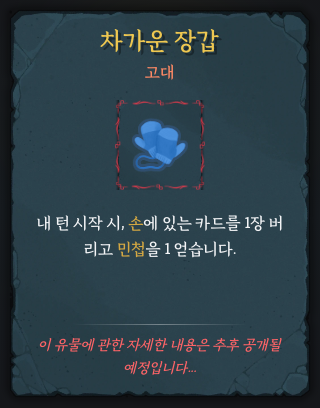
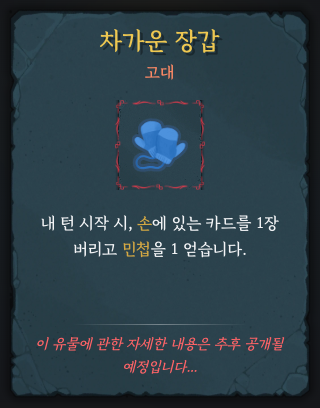
Keep byrdispatch captures at intrinsic size and recapture the Cold Mittens slab.

diff --git a/src/app/(main)/byrdispatch/page-content.tsx b/src/app/(main)/byrdispatch/page-content.tsx
@@ -597,21 +597,14 @@ function byrdispatchItemKey(item: ByrdispatchSectionItem, index: number): string
 }
 
 function ByrdispatchMediaBlock({ media }: { media: ByrdispatchMedia }) {
-  const compact = media.src.includes("/story-reaction-palette.");
   return (
-    <figure className={[
-      "mt-3 overflow-hidden rounded-lg border border-border/70 bg-zinc-950/70",
-      compact ? "mx-auto w-1/2" : "",
-    ].filter(Boolean).join(" ")}
-    >
+    <figure className="mx-auto mt-3 w-fit max-w-full overflow-hidden rounded-lg border border-border/70 bg-zinc-950/70">
       <Image
         src={media.src}
         alt={media.alt}
         title={media.title}
-        width={1280}
-        height={776}
         loading="lazy"
-        className="w-full object-cover"
+        className="mx-auto block h-auto w-auto max-w-full object-contain"
       />
       {media.alt && (
         <figcaption className="border-t border-border/60 px-3 py-2 text-xs font-medium text-zinc-400">

diff --git a/.codex/skills/byrdispatch-writer/SKILL.md b/.codex/skills/byrdispatch-writer/SKILL.md
@@ -138,6 +138,7 @@ Treat `<캡쳐>`, `(이미지)`, and explicit "캡쳐 포함" notes as the shot 
 
 - Place each image **immediately before** the bullet it illustrates, matching published `2026-08-04` / `2026-08-12`.
 - Indent an image by the same two spaces when it belongs to a nested example.
+- Crop to the feature at its on-screen size. The renderer centers captures at intrinsic pixel size and must not stretch them to the content column.
 - Do not add extra shots the user did not list (the 2026-08-12 create-post modal was this failure).
 - If a placeholder is ambiguous (`<모달창 캡쳐>` next to a delete bullet), capture that feature, not a nearby similar modal.
 
